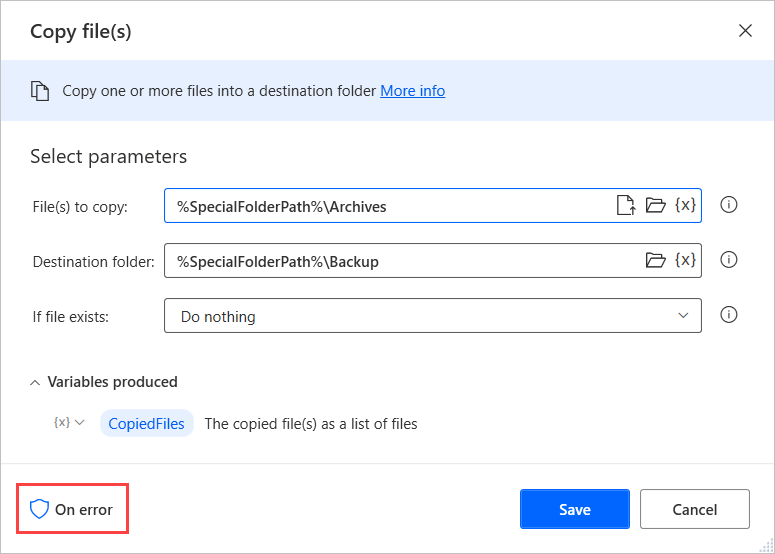
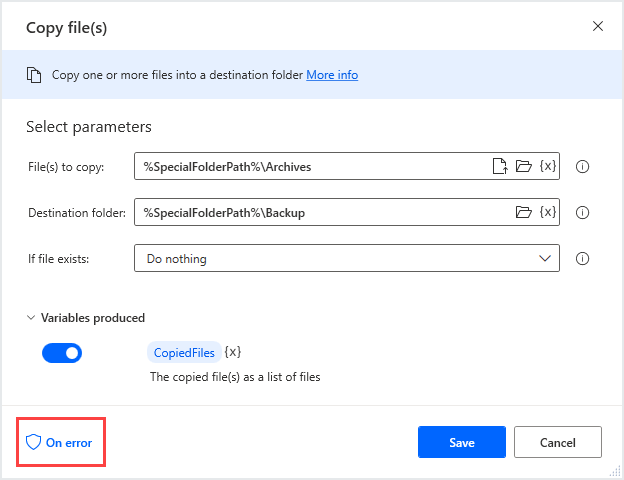
Updated actions-pane.md

Changed region(s): [[0.0, 0.125, 1.0, 1.0], [0.0609, 0.6562, 0.5481, 0.8125], [0.0, 0.0, 1.0, 0.125]]

diff --git a/articles/desktop-flows/actions-pane.md b/articles/desktop-flows/actions-pane.md
@@ -42,7 +42,7 @@ Power Automate Desktop actions consist of two main segments:
 - The input parameters - They have the form of text fields, drop-down menus, and  check boxes
 - The produced variables - Automatically created variables
 
-![Τhe parameters and the produced variables of the Copy folder action.](media/configuring-actions/actions-parameteres-outputs.png)
+![Τhe parameters and the produced variables of the Copy folder action.](media/configuring-actions/actions-parameters-outputs.png)
 
 The input parameters determine the way an action functions and the data it gets as input. The data can be hardcoded values or variables. 
 
@@ -50,13 +50,13 @@ To use a variable as a parameter, select the icon on the field's right side and 
 
 Each field can accept specific data types, such as numbers, text, or lists. If a value or variable of a wrong data type is used as an input, the action will throw an error. 
 
-![The icon to select an input parameter in the action.](media/configuring-actions/actions-parameteres.png)
+![The icon to select an input parameter in the action.](media/configuring-actions/actions-parameters.png)
 
 The produced variables hold the outcomes of the action for later use. All the produced variables are displayed on the bottom part of the action's properties. 
 
 Each produced variable has a data type defined by its data. You can see the data type of a variable in the **Variables** pane. Find more information about data types in the [respective article](variable-data-types.md).
 
-In case a produced variable isn't needed for later use, select the icon on the left side of it and pick **Not needed**. 
+In case a produced variable isn't needed for later use, uncheck the checkbox under **Variables produced**. 
 
 ![The option to disable a produced variable in the action.](media/configuring-actions/actions-outputs.png)
 
